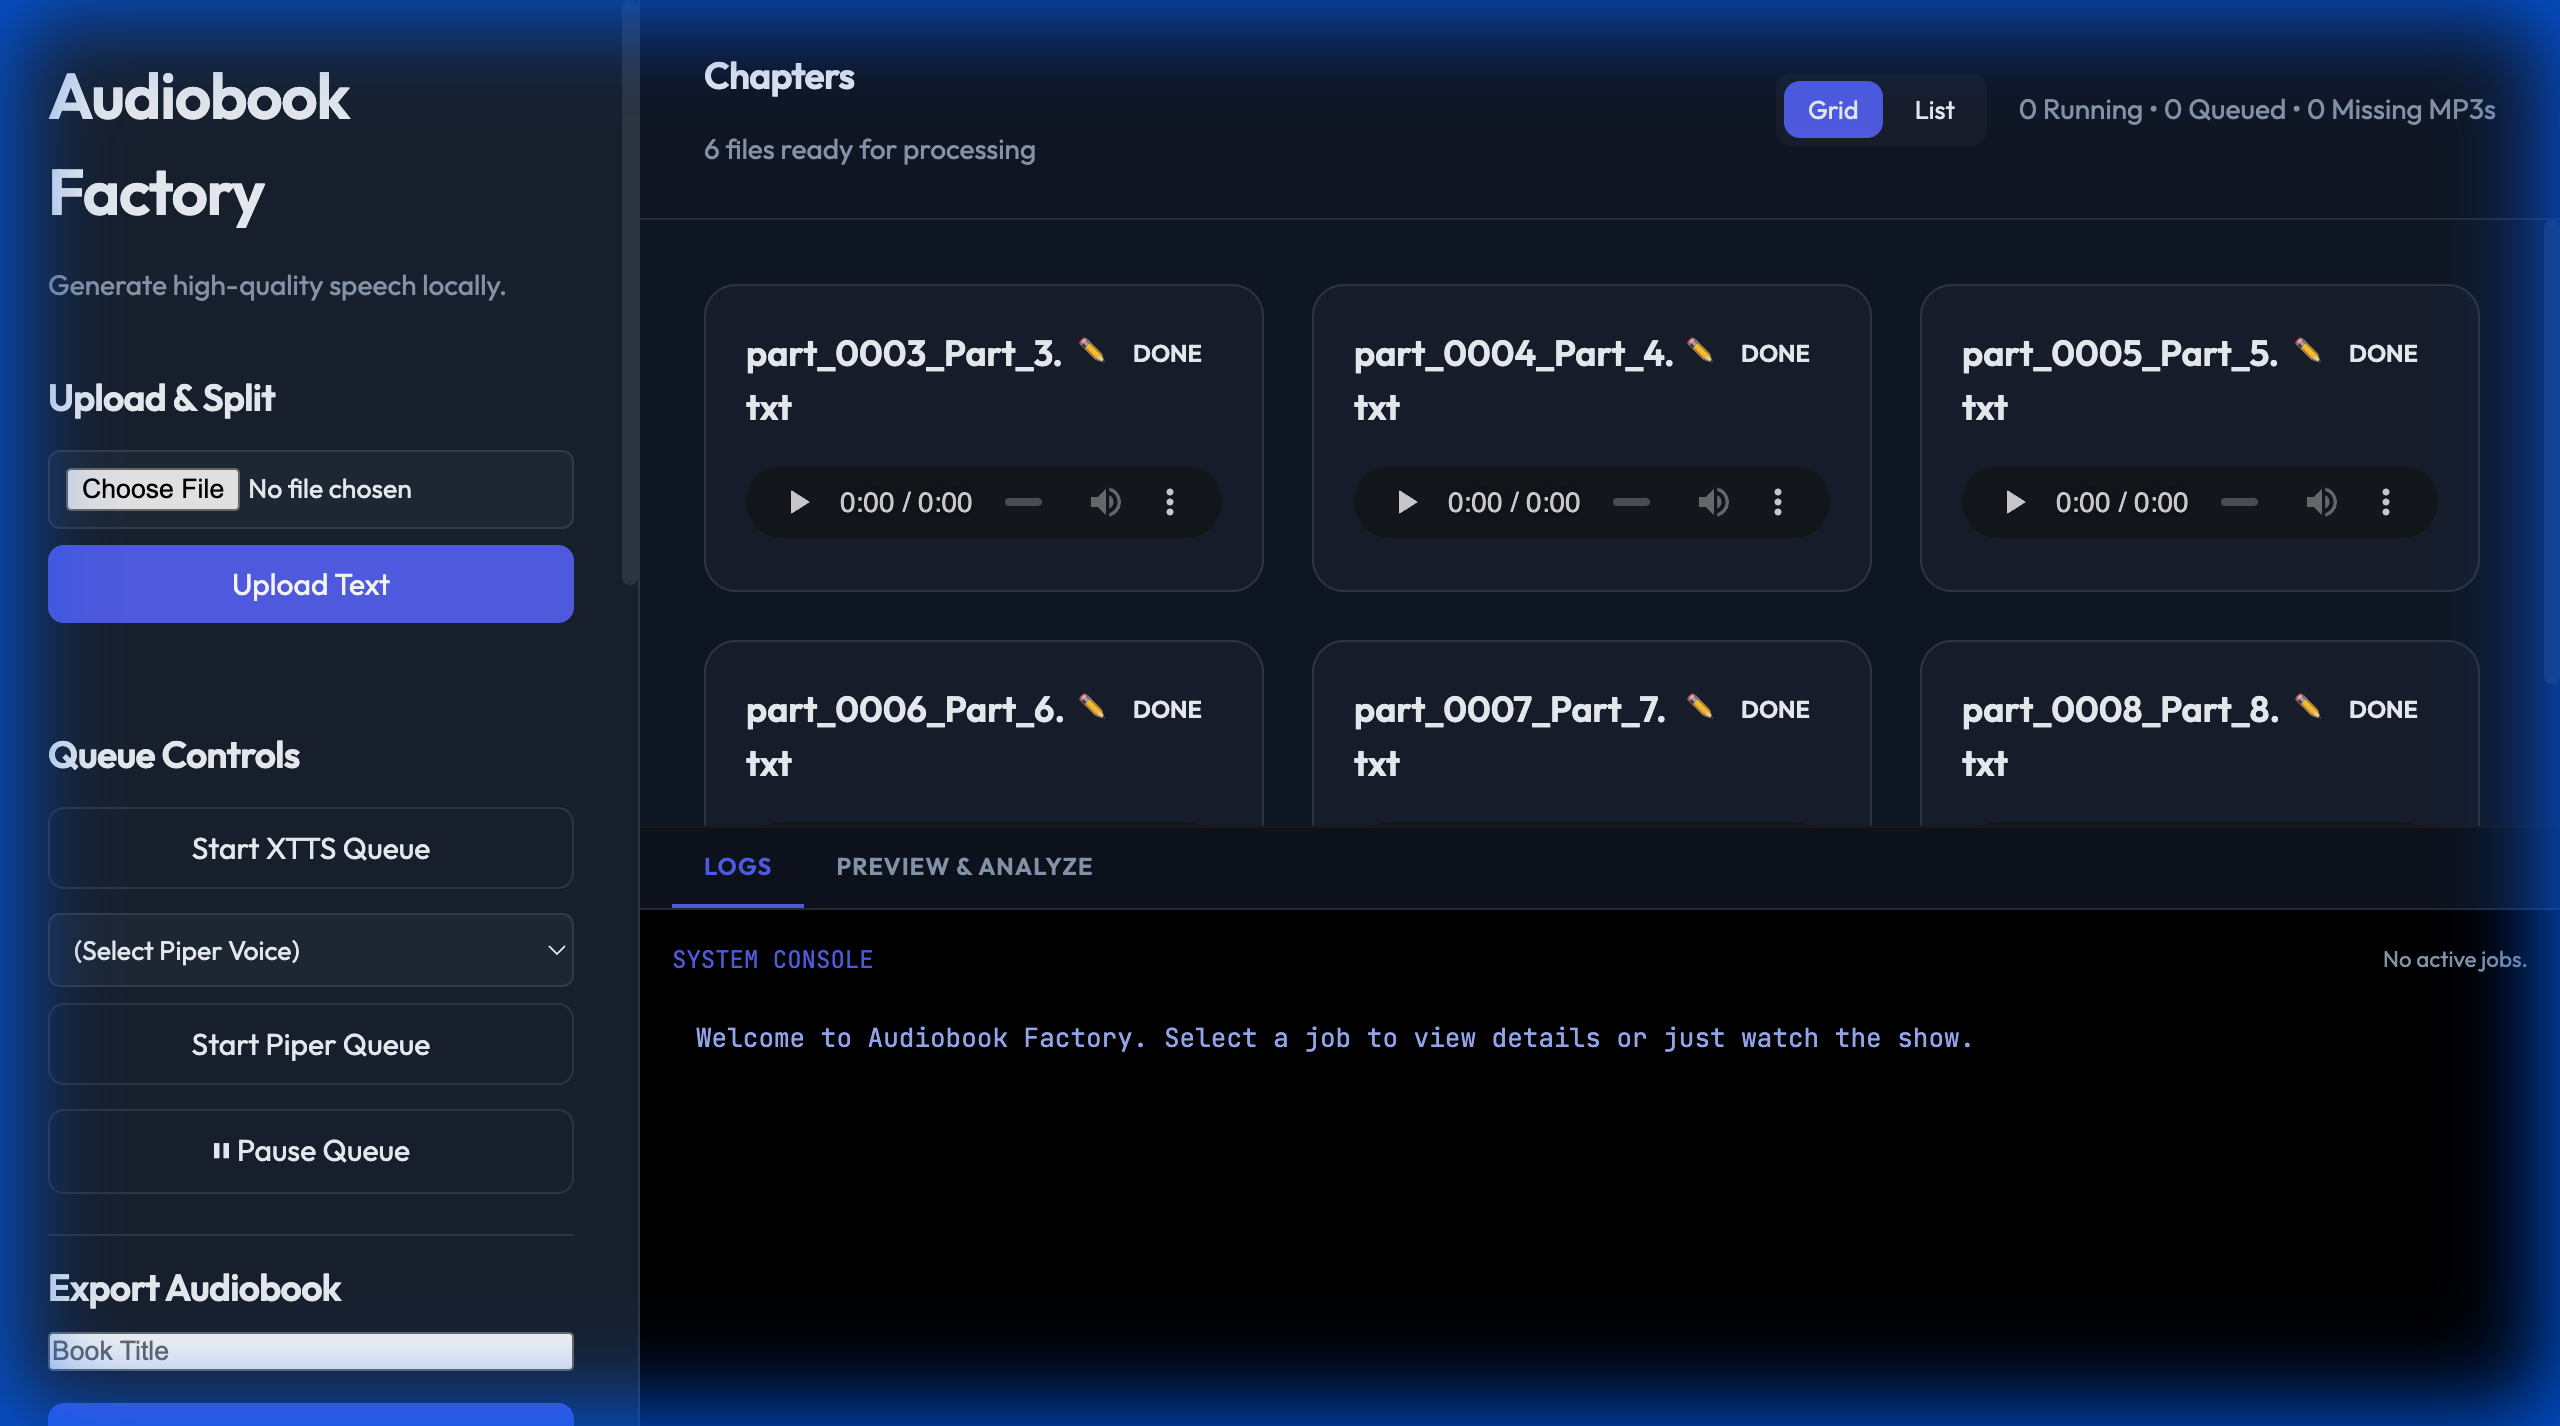
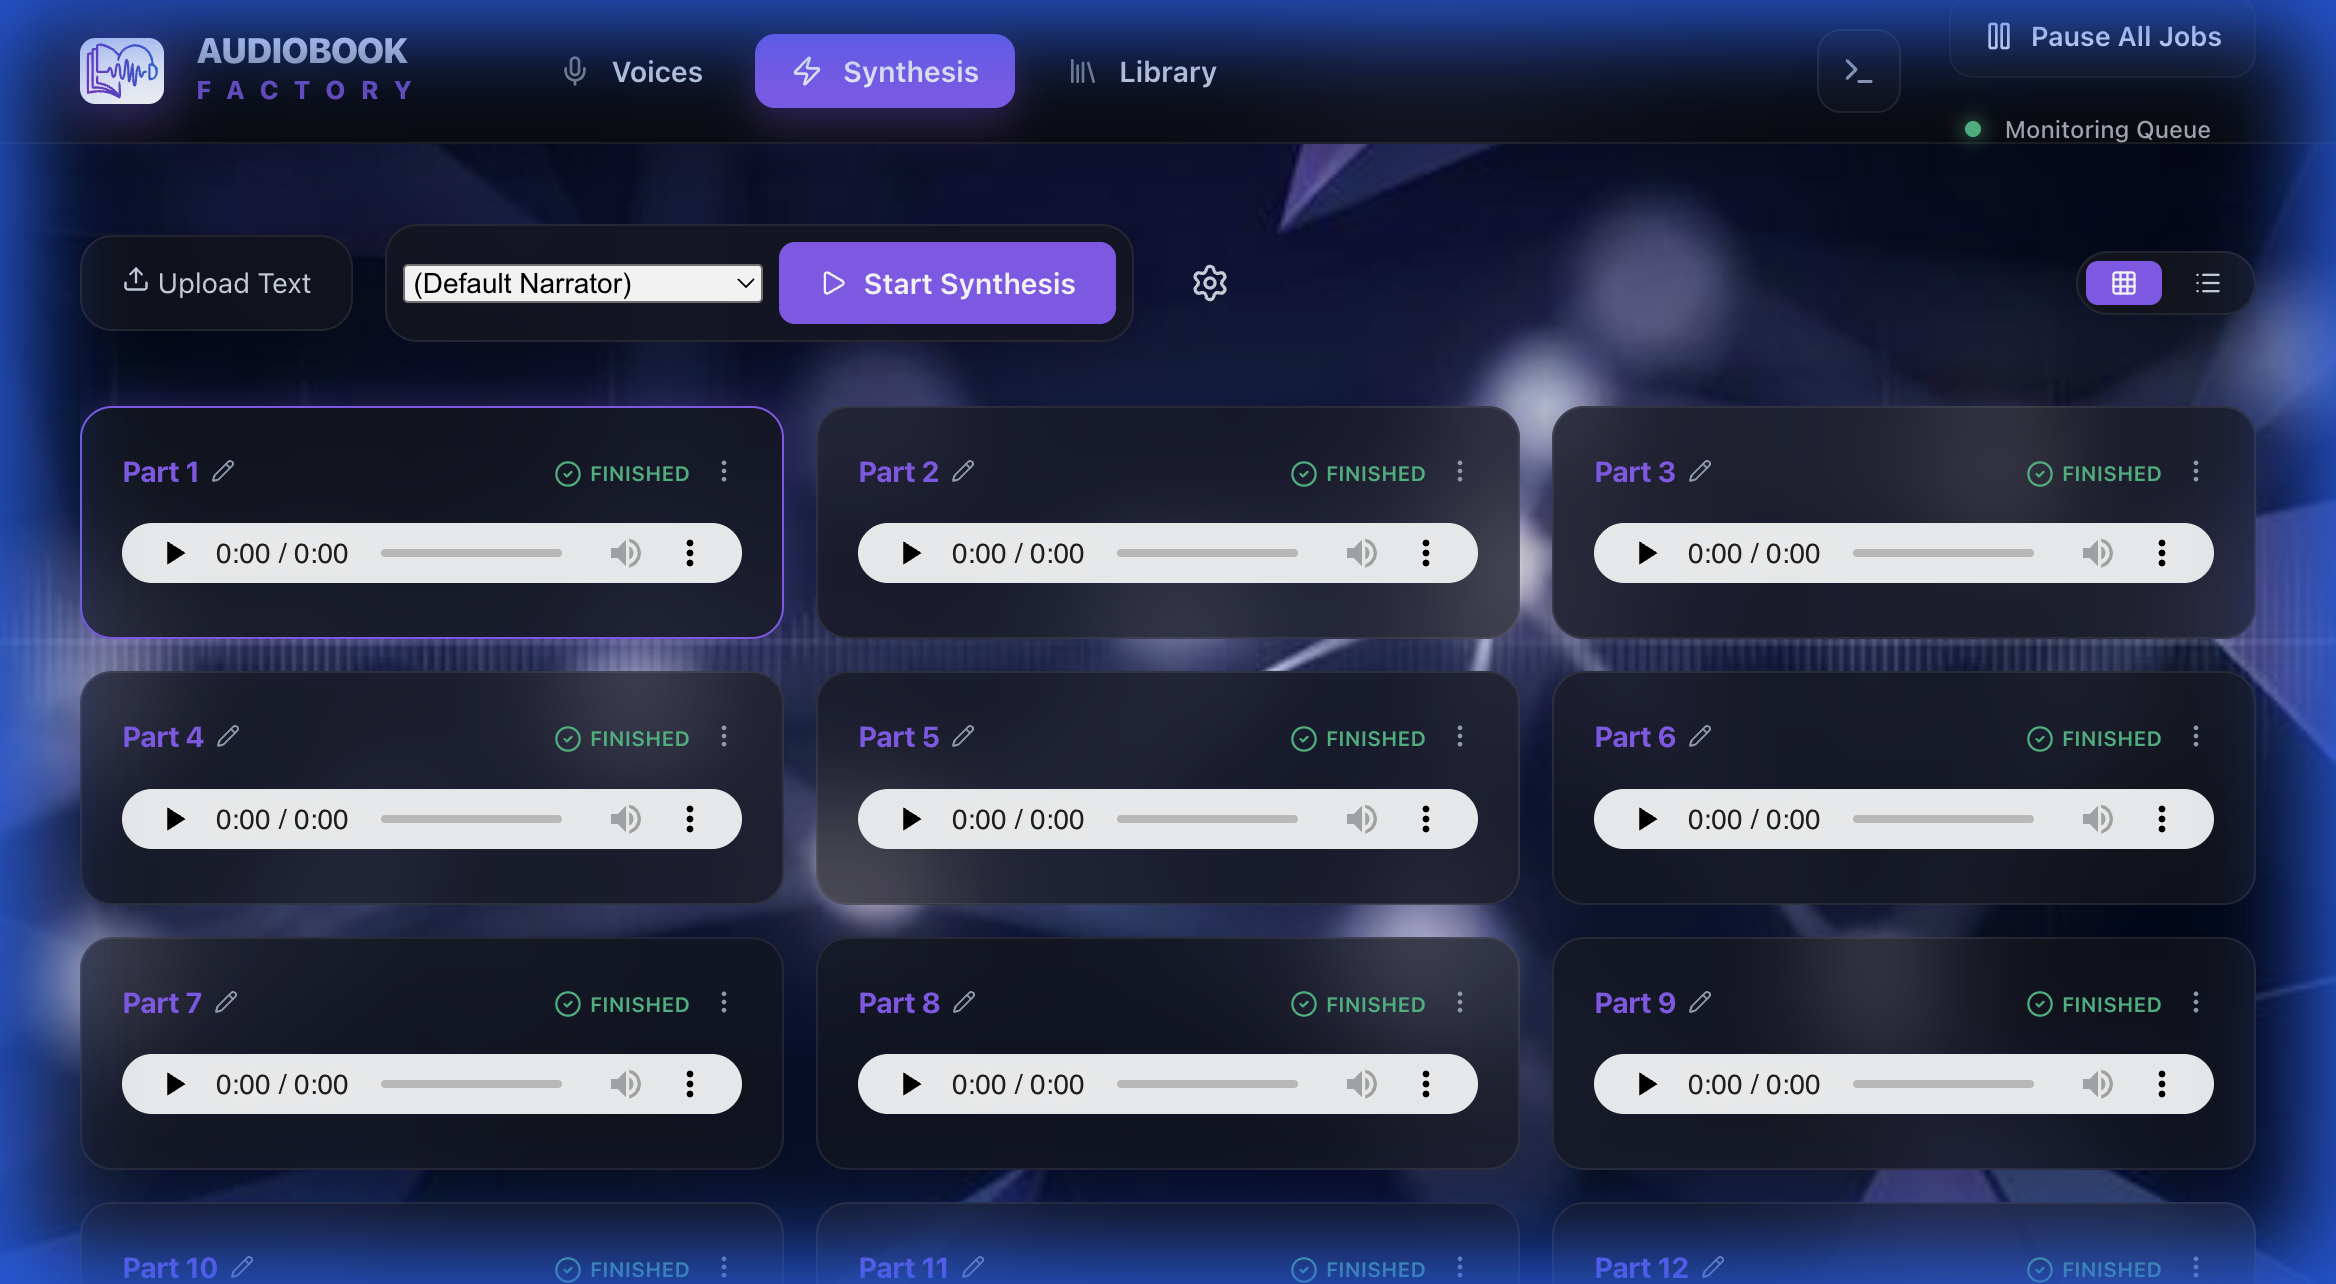
updates to readme

diff --git a/docs/index.html b/docs/index.html
@@ -251,27 +251,34 @@
 
         <div class="features-grid fade-in" style="animation-delay: 0.4s;">
             <div class="feature-item">
-                <h3>Voice Cloning</h3>
-                <p>Leverage XTTS-v2 to clone any voice from just 60 seconds of clean audio.</p>
+                <h3>XTTS-v2 Cloning</h3>
+                <p>Native voice cloning that creates high-fidelity narrators from just 60 seconds of reference audio.
+                </p>
             </div>
             <div class="feature-item">
-                <h3>Auto-Tuning ETA</h3>
-                <p>Intelligent feedback loop that learns your hardware speed for precise progress tracking.</p>
+                <h3>Per-Chapter Analysis</h3>
+                <p>Deep-dive into text processing with a dedicated modal for raw vs. engine-processed text analysis.</p>
             </div>
             <div class="feature-item">
                 <h3>Interactive Assembly</h3>
-                <p>Customize metadata, rename chapters, and select sections in a real-time terminal.</p>
+                <p>A smart, real-time interface for renaming, reordering, and skipping chapters before final build.</p>
             </div>
         </div>
 
         <div class="visual-grid fade-in" style="animation-delay: 0.6s;">
             <div class="screenshot-container">
                 <img src="assets/home.png" alt="Dashboard Home">
-                <div class="caption">Live production dashboard with per-chapter progress tracking.</div>
+                <div class="caption">Modern Glassmorphism dashboard with real-time per-chapter progress tracking.</div>
             </div>
             <div class="screenshot-container">
-                <img src="assets/export.png" alt="Interactive Export">
-                <div class="caption">Smart assembly interface for fine-tuning the final M4B output.</div>
+                <img src="assets/preview.png" alt="Preview & Analysis Modal">
+                <div class="caption">Advanced analysis modal for fine-tuning text before it hits the speech engine.
+                </div>
+            </div>
+            <div class="screenshot-container">
+                <img src="assets/export.png" alt="Interactive Assembly">
+                <div class="caption">Smart assembly interface for configuring metadata and selecting valid chapters.
+                </div>
             </div>
         </div>
 

diff --git a/README.md b/README.md
@@ -1,13 +1,12 @@
 # 🎧 Audiobook Factory
 
-Audiobook Factory is a self-hosted web dashboard for turning
-chapter-marked text files into full audiobook audio using:
+Audiobook Factory is a modern, self-hosted web dashboard for turning chapter-marked text files into high-quality audiobook audio using **local AI speech synthesis**.
 
--   **XTTS-v2 (voice cloning)**
--   **Piper (fast ONNX voices)**
--   **Auto-Tuning ETA (Learns your hardware speed)**
--   **Interactive Assembly (Rename/Skip chapters)**
--   **Audible Project Overview (Synthesized locally)**
+-   **XTTS-v2 (Native Voice Cloning)**: Clone any voice from just 60 seconds of audio.
+-   **Modern Glassmorphism UI**: High-performance dashboard with deep customization.
+-   **Per-Chapter Preview**: Preview and analyze text segments before synthesis.
+-   **Auto-Tuning ETA**: Progress tracking that learns from your hardware's speed.
+-   **Interactive Assembly**: Smart interface for renaming, reordering, and building final M4B files.
 
 ![Audiobook Factory Dashboard](docs/assets/home.png)
 
@@ -15,26 +14,21 @@ chapter-marked text files into full audiobook audio using:
 > **View Live Project Overview**: 🎙 [Audiobook Factory Live Showcase](https://senigami.github.io/audiobook-factory/)
 > *(Includes an embedded audio player and interactive feature tour)*
 
-It runs entirely locally and supports queued batch processing, live
-progress tracking, WAV + MP3 generation, and browser audio preview.
+It runs entirely locally and supports queued batch processing, live progress tracking, and browser-based audio preview.
 
-No cloud required.
+No cloud required. No subscriptions. Total privacy.
 
 ------------------------------------------------------------------------
 
 # 🚀 Features
 
--   📖 Upload large `.txt` manuscripts
--   ✂ Automatically split into chapters
--   🎙 Voice cloning with XTTS (your narrator voice)
--   🔊 Piper ONNX voice support
--   🧠 One-click queued batch processing
--   📊 **Live Auto-Tuning ETA**: Progress bars that learn from your hardware performance.
--   🎧 **Interactive Assembly**: Resize, rename, or skip chapters before building the M4B.
--   🎧 Built-in audio player
--   🔁 Backfill MP3 from WAV
--   🔄 Reconcile job state with existing audio files
--   🧹 Clear completed jobs
+-   🎙 **Voice Cloning**: Use XTTS-v2 to narrate with your own cloned voice profiles.
+-   📝 **Per-Chapter Analysis**: Dedicated modal for previewing raw text vs. engine-processed text.
+-   🖥 **System Console**: Integrated terminal for real-time logs, togglable from the global header.
+-   📊 **Live Auto-Tuning ETA**: Progress bars that adapt to your hardware performance in real-time.
+-   🎧 **Interactive Assembly**: Rename, skip, or reorder chapters before final assembly into M4B.
+-   🔊 **MP3/WAV Support**: High-fidelity WAV generation with automatic MP3 backfilling.
+-   🧹 **Job Management**: One-click clearing of completed jobs and reconciliation of existing files.
 
 ![Interactive Audiobook Assembly](docs/assets/export.png)
 
@@ -46,7 +40,7 @@ No cloud required.
 
 -   macOS, Linux, or Windows
 -   Python 3.11+ (Required for XTTS)
--   `ffmpeg` (required for MP3 generation)
+-   `ffmpeg` (Required for MP3 and M4B generation)
 
 ------------------------------------------------------------------------
 
@@ -69,9 +63,6 @@ cd audiobook-factory
 brew install python@3.11 ffmpeg
 ```
 
-> [!TIP]
-> **Python Version**: Ensure you use `python3.11` when creating the virtual environment if multiple python versions are installed.
-
 ### Ubuntu / Debian
 
 ``` bash
@@ -87,11 +78,6 @@ sudo apt install -y python3 python3-venv ffmpeg
 python3.11 -m venv venv
 source venv/bin/activate
 pip install -U pip
-```
-
-Install required packages:
-
-``` bash
 pip install -r requirements.txt
 ```
 
@@ -108,126 +94,44 @@ pip install -U pip
 pip install -r requirements-xtts.txt
 ```
 
-Test XTTS:
+### 🎤 Voice Profiles
 
-``` bash
-tts --model_name tts_models/multilingual/multi-dataset/xtts_v2 \
-    --text "Testing Audiobook Factory." \
-    --speaker_wav narrator_clean.wav \
-    --language_idx en \
-    --out_path test.wav
-```
+Place your voice samples in the `voices/` directory:
 
-------------------------------------------------------------------------
-
-## 🎤 Narrator Voice Sample
-
-Place your clean narrator recording in:
-
-    audiobook-factory/
-      narrator_clean.wav
-
-Recommended: - 30--120 seconds - Quiet room - No background noise -
-Consistent tone - WAV format (mono preferred)
-
-------------------------------------------------------------------------
-
-# 🔊 Piper Setup (Optional)
-
-Place `.onnx` voice files in:
-
+```text
     voices/
-      en_US-voice.onnx
-      en_US-voice.onnx.json
-
-Optional separate environment:
-
-``` bash
-python3 -m venv ~/piper-env
-source ~/piper-env/bin/activate
-pip install -U pip
-pip install piper-tts
+      Default/
+        profile.json
+        speaker.wav
+      MyVoice/
+        speaker.wav
 ```
 
-------------------------------------------------------------------------
-
-# 🗂 Recommended Folder Structure
-
-    ├── app/
-    ├── assets/             <-- README screenshots & audio
-    ├── templates/
-    ├── chapters_out/
-    ├── uploads/
-    ├── reports/
-    ├── xtts_audio/
-    ├── piper_audio/
-    ├── voices/
-    ├── narrator_clean.wav
-    ├── state.json
-    └── README.md
+The system will automatically detect these profiles in the Dashboard.
 
 ------------------------------------------------------------------------
 
 # ▶ Running Audiobook Factory
 
+1. **Start the backend**:
 ``` bash
 cd audiobook-factory
 source venv/bin/activate
 uvicorn run:app --port 8123
 ```
 
-Open:
-
-    http://127.0.0.1:8123
-
-⚠ For long queues, do NOT use `--reload`.
+2. **Access the Dashboard**:
+Open `http://127.0.0.1:8123` in your browser.
 
 ------------------------------------------------------------------------
 
-# � React Frontend Setup (Development)
+# 📖 Usage
 
-If you wish to run the React frontend in development mode (with Hot Module Replacement):
-
-```bash
-cd frontend
-npm install
-npm run dev
-```
-
-The frontend will be available at:
-
-    http://127.0.0.1:5173
-
-It is configured to proxy API requests to the Python backend at `http://127.0.0.1:8123`.
-
-------------------------------------------------------------------------
-
-# �📖 Usage
-
-1.  Upload `.txt` manuscript.
-
-2.  Ensure chapters follow format:
-
-    Chapter 1591: Years Later
-
-3.  Split into chapters.
-
-4.  Start queue.
-
-5.  Monitor progress live.
-
-6.  Download WAV or MP3 files.
-
-------------------------------------------------------------------------
-
-# 🔁 State Management
-
-If jobs appear stuck:
-
--   Reset stuck RUNNING jobs
--   Reconcile jobs with existing files
--   Clear DONE jobs
--   Or delete `state.json`
+1.  **Upload**: Upload your `.txt` manuscript.
+2.  **Split**: Automatically split the file into chapters.
+3.  **Preview**: Use the **Preview & Analyze** modal from the chapter card's menu to check text processing.
+4.  **Synthesize**: Select a Voice Profile and click **Start Batch**.
+5.  **Assemble**: Once finished, go to the **Library** tab to assemble your chapters into a final M4B audiobook.
 
 ------------------------------------------------------------------------
 
@@ -242,38 +146,18 @@ pytest -v
 
 ------------------------------------------------------------------------
 
-# 📦 requirements.txt
-
-# 🧹 Optional: .gitignore
-
-    venv/
-    __pycache__/
-    *.pyc
-    state.json
-    uploads/
-    reports/
-    xtts_audio/
-    piper_audio/
-    chapters_out/
-    narrator_clean.wav
-    voices/
-
-------------------------------------------------------------------------
-
 # 🔐 Security
 
-Designed for local use only. Do not expose directly to the public
-internet.
+Designed for **local use only**. Do not expose directly to the public internet without proper authentication and reverse proxy setup.
 
 ------------------------------------------------------------------------
 
 # 📜 License
 
-MIT recommended.
+MIT License.
 
 ------------------------------------------------------------------------
 
 # 🎧 Why Audiobook Factory?
 
-Because sometimes you just want to feed in a manuscript and let the
-machinery hum until it becomes a voice.
+Because turning a manuscript into a high-quality audiobook shouldn't require a cloud subscription or technical wizardry—just a local machine and the right machinery.
